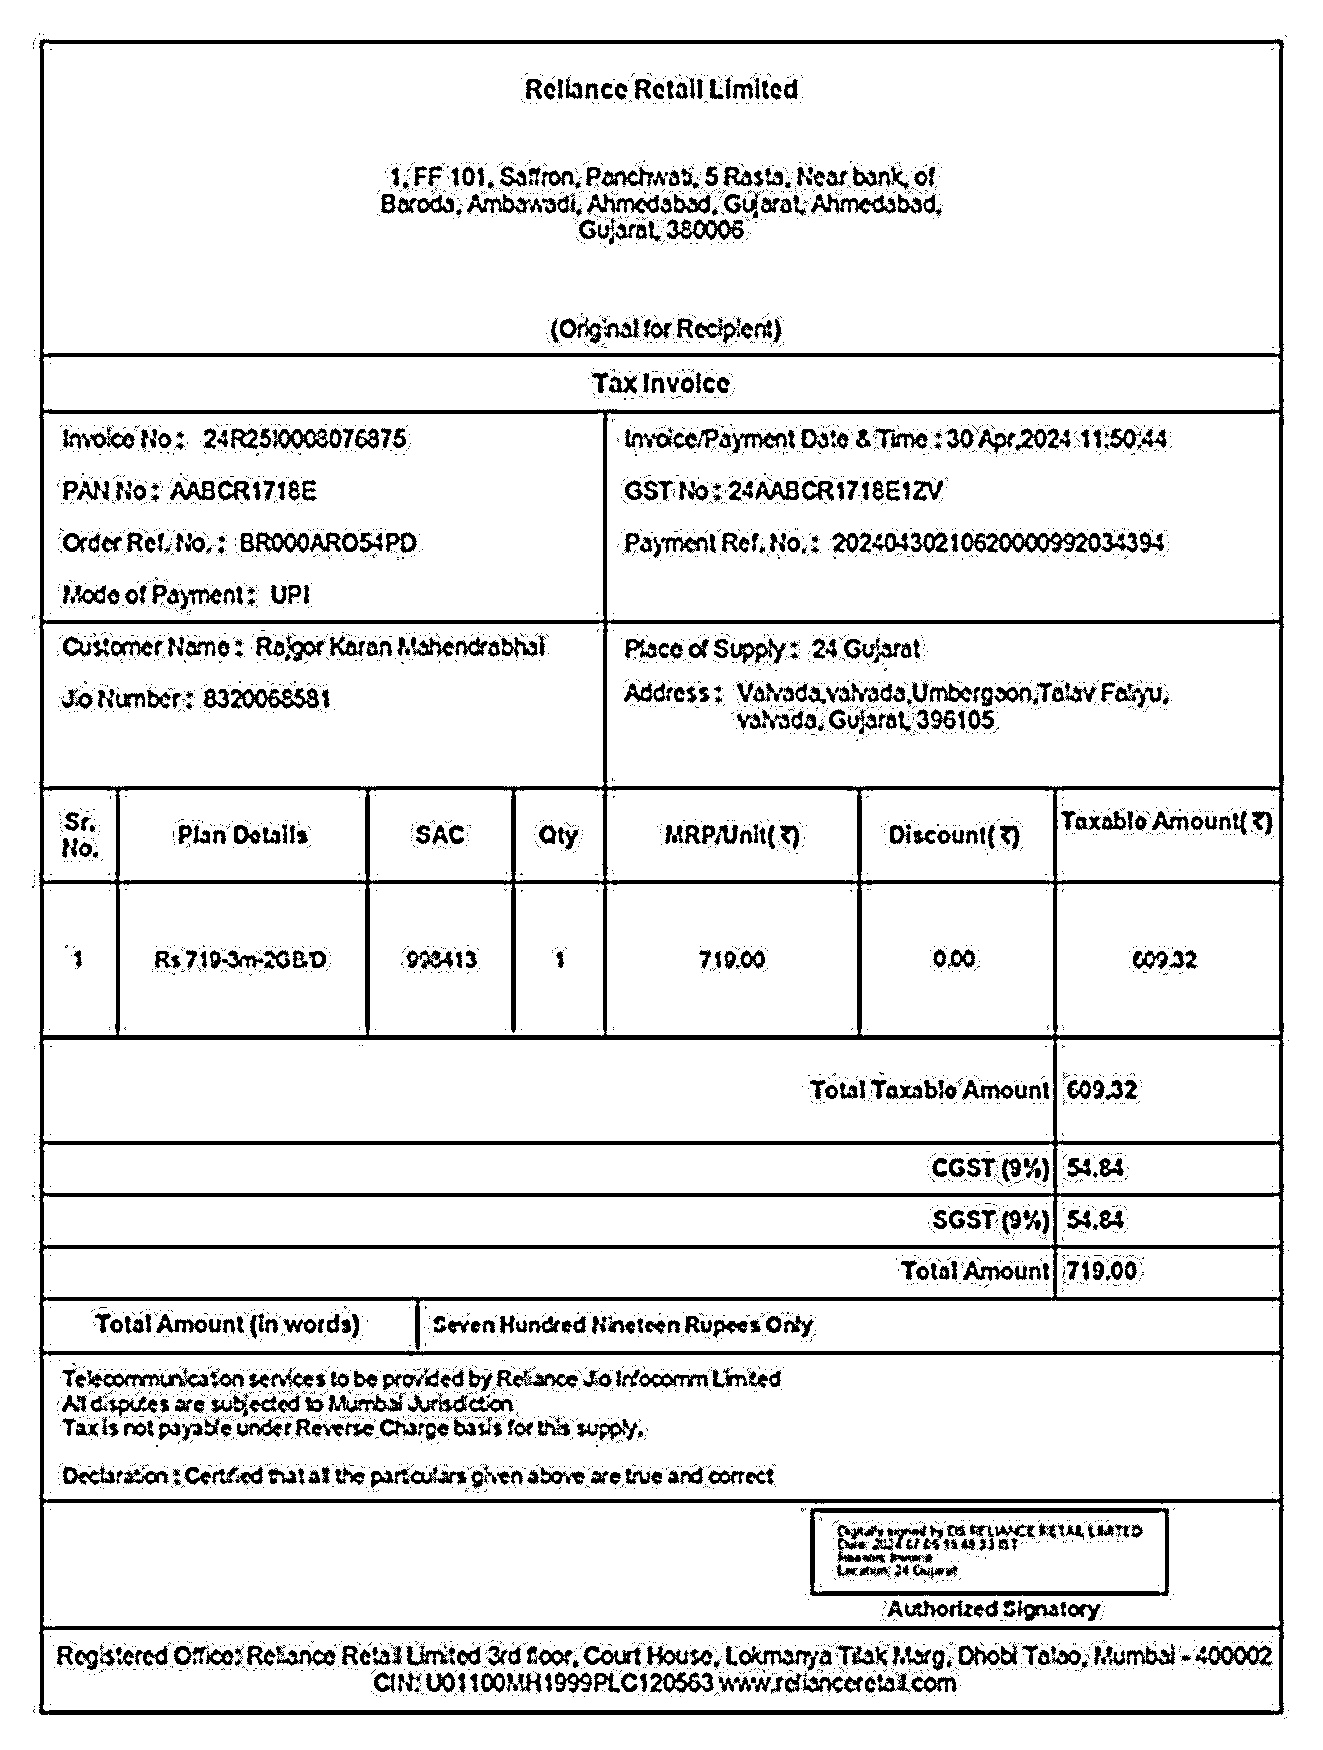
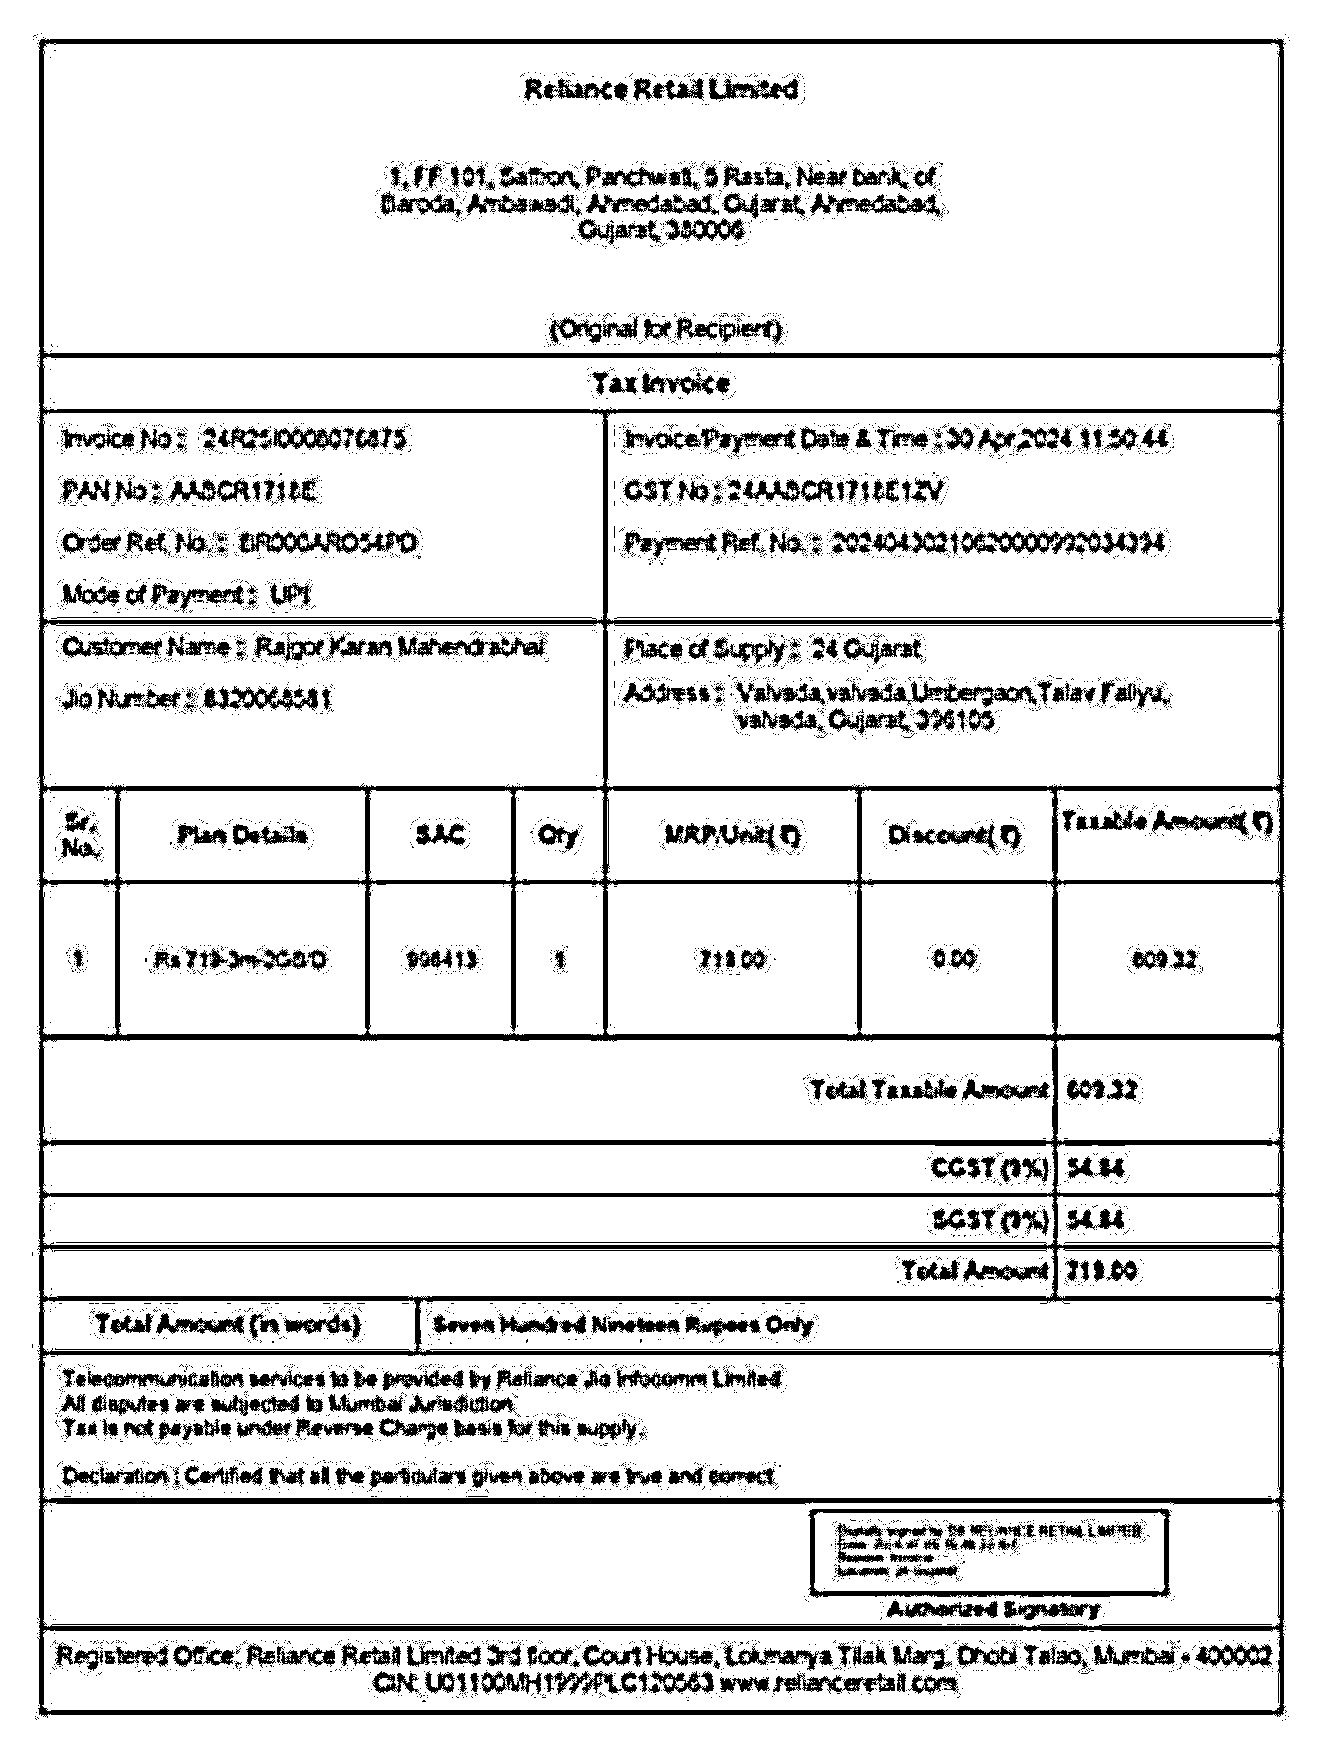
added proper image enhanced params

diff --git a/check_image_enhance.py b/check_image_enhance.py
@@ -44,11 +44,15 @@ def deskew_image(image):
 
     # Find the angle of the rotated bounding box
     angle = cv2.minAreaRect(coords)[-1]
+    print("angle")
+    print(angle)
     if angle < -45:
         angle = -(90 + angle)
     else:
-        angle = -angle
+        angle = 0
 
+    print("after angle")
+    print(angle)
     # Rotate the image to deskew it
     (h, w) = image.shape[:2]
     center = (w // 2, h // 2)
@@ -63,19 +67,19 @@ def preprocess_image(image):
     
     # Sharpening the image using a kernel
     kernel = np.array([[0, -1, 0],
-                       [-1, 4.20, -1],
+                       [-1, 4.35, -1],
                        [0, -1, 0]])
     sharpened = cv2.filter2D(blurred, -1, kernel)
     
     # Adjust contrast
-    alpha = 1.1  # Contrast control (1.0-3.0)
-    beta = 5    # Brightness control (0-100)
+    alpha = 1.5  # Contrast control (1.0-3.0)
+    beta = 4    # Brightness control (0-100)
     adjusted = cv2.convertScaleAbs(sharpened, alpha=alpha, beta=beta)
     
     # Apply adaptive thresholding to binarize the image
     thresholded = cv2.adaptiveThreshold(adjusted, 255,
                                         cv2.ADAPTIVE_THRESH_GAUSSIAN_C,
-                                        cv2.THRESH_BINARY, 5, 0.5)
+                                        cv2.THRESH_BINARY, 13, 1.5)
     
     return thresholded
 
@@ -103,4 +107,4 @@ def main(image_path, output_path):
     plt.show()
 
 # Example usage
-main('images/image_blur_4.jpg', 'images/output_image.jpg')
+main('images/image_blur_6.jpg', 'images/output_image.jpg')
